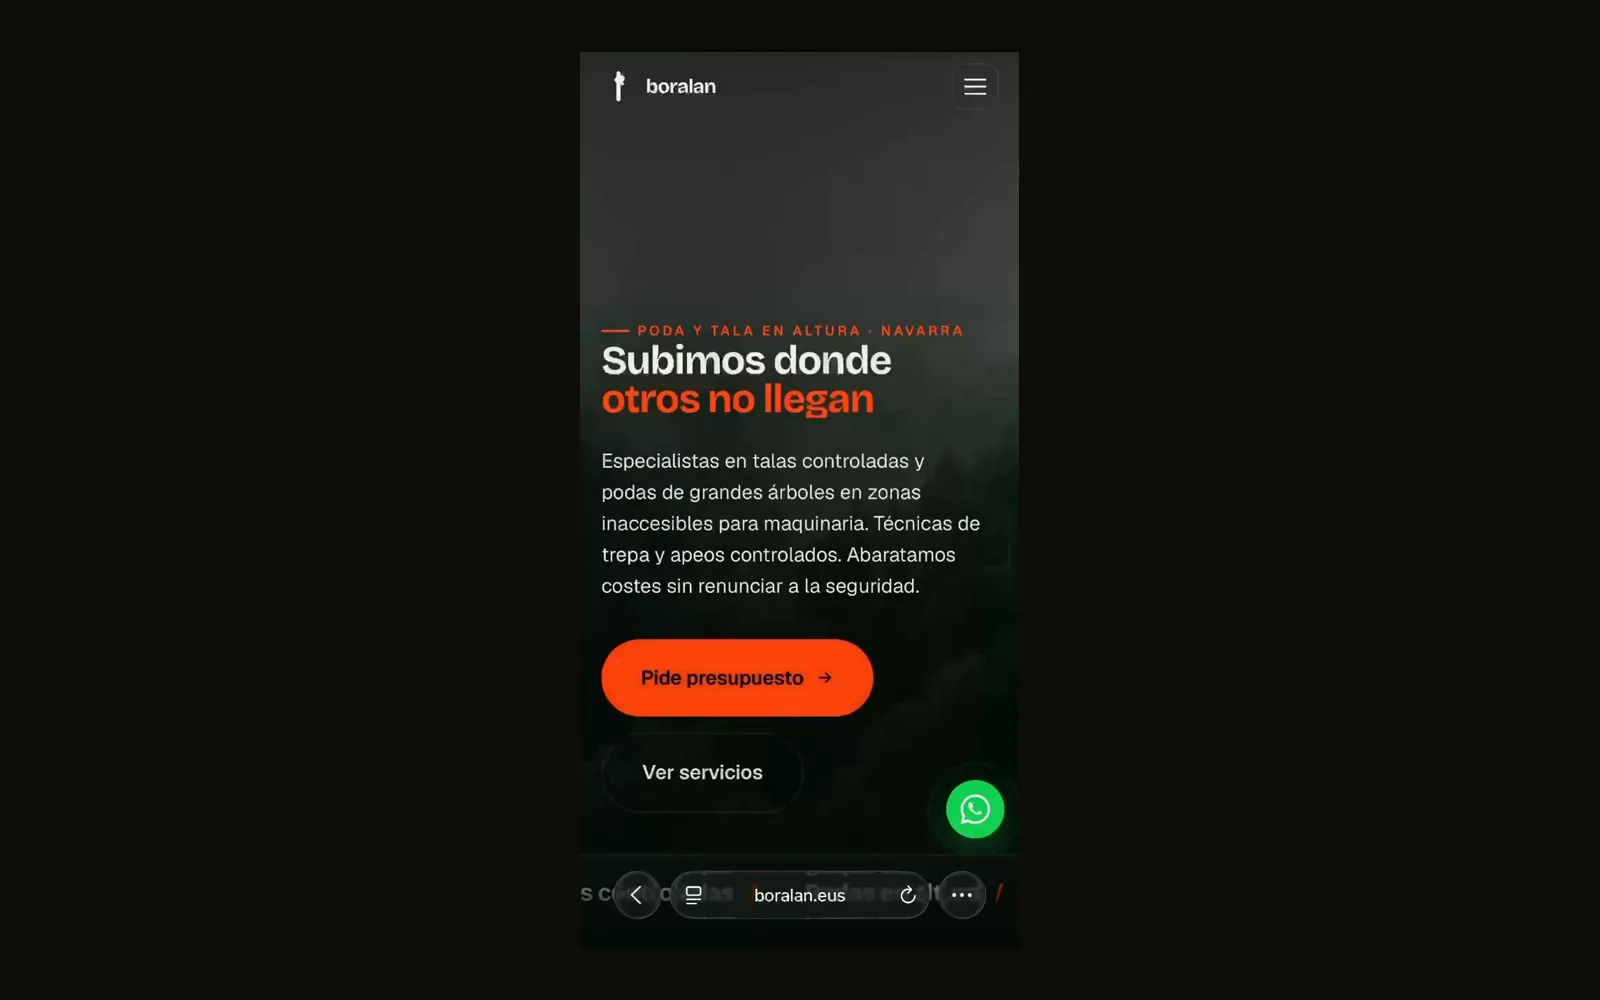
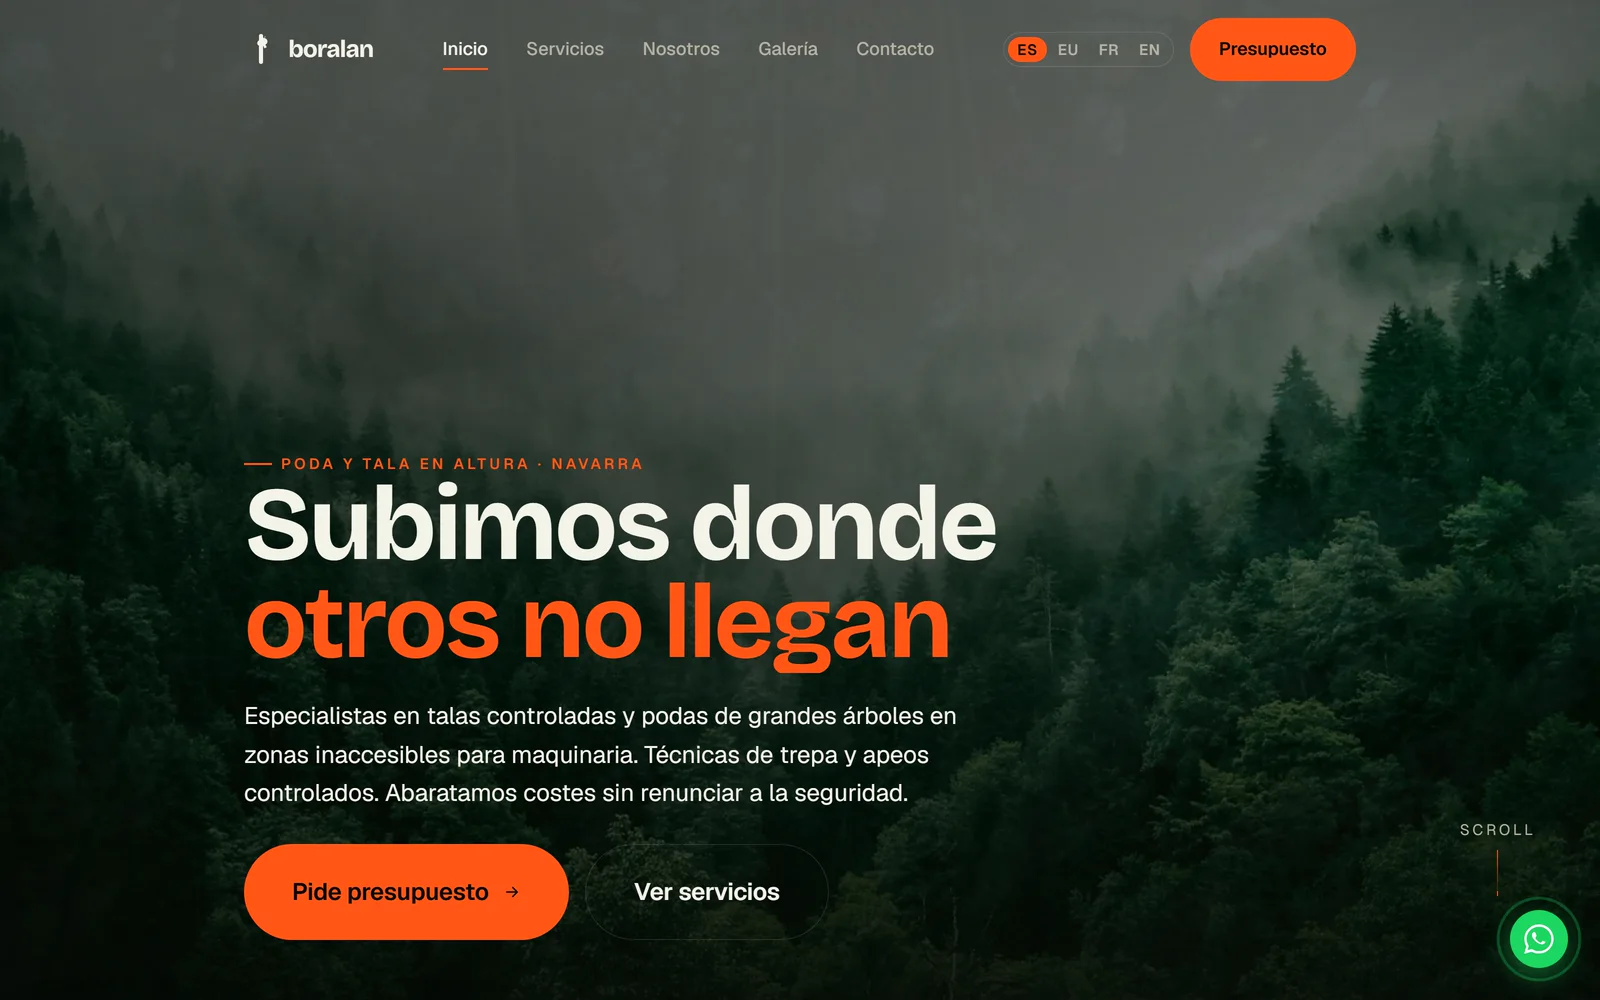
feat(home+boralan): cover desktop real de Boralan y vídeo de resultados en el bloque de stats
- Sustituye el cover provisional de Boralan por la captura real de escritorio de boralan.eus
- Añade la curva real de Google Business de Motos Arretxe al bloque "Lo que ven mis clientes en el primer trimestre", junto a +40/1240+/87★, con animación al entrar en viewport

diff --git a/components/shared/LiveCallCounter.tsx b/components/shared/LiveCallCounter.tsx
@@ -2,6 +2,7 @@
 
 import { useEffect, useRef, useState } from "react";
 import type { Locale } from "@/lib/i18n/config";
+import ResultsVideo from "@/components/projects/ResultsVideo";
 
 interface Props {
   locale: Locale;
@@ -59,6 +60,9 @@ export default function LiveCallCounter({ locale }: Props) {
           calls: "llamadas nuevas al mes",
           searches: "veces que tu negocio aparece en Google",
           reviews: "reseñas de 5 estrellas",
+          proofTitle: "Un caso real, en directo",
+          proofCaption:
+            "Interacciones del perfil de Motos Arretxe en Google: de 63 en enero a 272 en abril de 2026 (+332%). Más de 1.000 interacciones acumuladas. Captura real de su panel de Google Business.",
         }
       : locale === "en"
       ? {
@@ -66,12 +70,18 @@ export default function LiveCallCounter({ locale }: Props) {
           calls: "new calls per month",
           searches: "times your business shows on Google",
           reviews: "5-star reviews",
+          proofTitle: "A real case, live",
+          proofCaption:
+            "Motos Arretxe's Google profile interactions: from 63 in January to 272 in April 2026 (+332%). Over 1,000 interactions in total. Real capture from their Google Business dashboard.",
         }
       : {
           eyebrow: "Lehen hiruhilekoan bezeroek ikusten dutena",
           calls: "hileko dei berriak",
           searches: "Googlen agertzen den aldiak",
           reviews: "5 izarreko iritziak",
+          proofTitle: "Benetako kasu bat, zuzenean",
+          proofCaption:
+            "Motos Arretxeren Google profilaren elkarrekintzak: 63 urtarrilean, 272 2026ko apirilean (+%332). 1.000 elkarrekintza baino gehiago guztira. Bere Google Business paneleko benetako irudia.",
         };
 
   return (
@@ -98,6 +108,12 @@ export default function LiveCallCounter({ locale }: Props) {
         .lcc-live { display:inline-flex; align-items:center; gap:6px; font-size:11px; color:#047857; font-weight:600; margin-top:8px; }
         .lcc-live-dot { width:6px; height:6px; border-radius:50%; background:#10B981; animation:lcc-pulse 1.6s ease-in-out infinite; }
         @keyframes lcc-pulse { 0%,100%{ opacity:1; transform:scale(1); } 50%{ opacity:.4; transform:scale(1.4); } }
+        .lcc-proof { display:grid; grid-template-columns:auto 1fr; gap:clamp(1rem,3vw,2rem); align-items:center; margin-top:clamp(1.5rem,3vw,2rem); padding-top:clamp(1.5rem,3vw,2rem); border-top:1px solid var(--color-line); }
+        @media(max-width:680px){ .lcc-proof{ grid-template-columns:1fr; } }
+        .lcc-proof-media { width:clamp(180px,40vw,260px); border-radius:var(--radius-lg); overflow:hidden; border:1px solid color-mix(in srgb, var(--color-accent) 30%, var(--color-line)); box-shadow:0 14px 36px color-mix(in srgb, var(--color-accent) 16%, transparent); }
+        .lcc-proof-media .project-results-video { width:100%; height:auto; display:block; }
+        .lcc-proof-title { font-family:var(--font-serif); font-size:clamp(1.1rem,2.4vw,1.4rem); font-weight:600; color:var(--color-primary); margin:0 0 var(--space-2); letter-spacing:-.02em; }
+        .lcc-proof-caption { font-family:var(--font-sans); font-size:var(--text-sm); line-height:1.55; color:var(--color-ink-muted); margin:0; }
       `}</style>
       <div ref={ref} className="lcc-wrap">
         <p className="lcc-eyebrow">{labels.eyebrow}</p>
@@ -117,6 +133,20 @@ export default function LiveCallCounter({ locale }: Props) {
           <div className="lcc-item">
             <p className="lcc-num">{reviews}<span className="lcc-num-plus">★</span></p>
             <p className="lcc-label">{labels.reviews}</p>
+          </div>
+        </div>
+
+        <div className="lcc-proof">
+          <figure className="lcc-proof-media">
+            <ResultsVideo
+              src="/video/motos-arretxe-resultados.mp4"
+              poster="/video/motos-arretxe-resultados-poster.jpg"
+              label={labels.proofCaption}
+            />
+          </figure>
+          <div>
+            <p className="lcc-proof-title">{labels.proofTitle}</p>
+            <p className="lcc-proof-caption">{labels.proofCaption}</p>
           </div>
         </div>
       </div>
